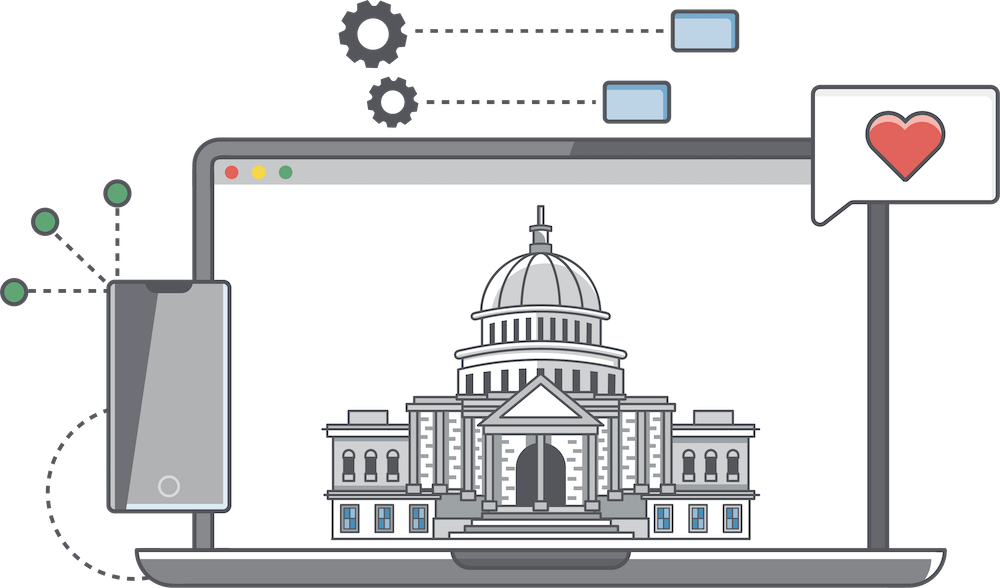
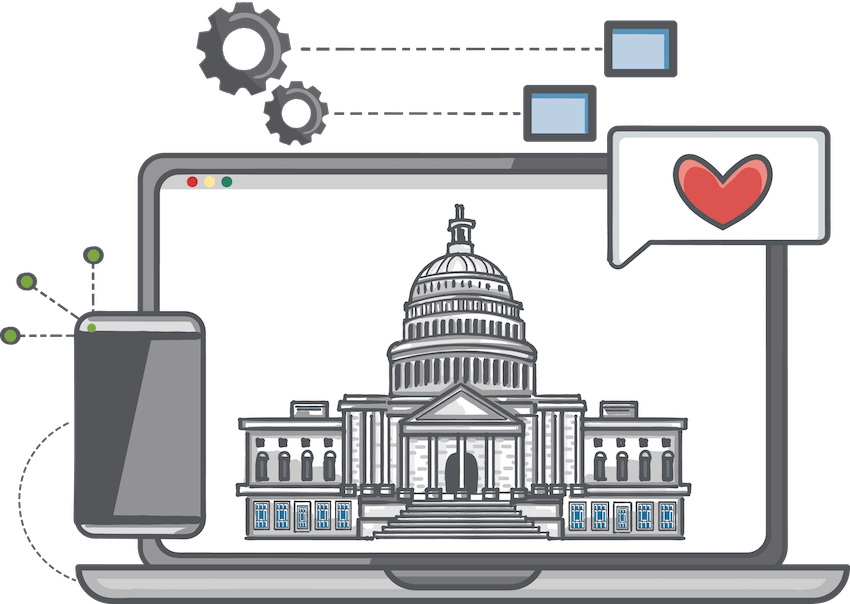
revert to old imgs; add links to DITAP page

diff --git a/pages/services.html b/pages/services.html
@@ -42,7 +42,8 @@ permalink: /services/
     <div class="minor-service-areas-row">
       <div class="minor-service-area-col">
         <p>
-          Also, check out our <a class="text" href="/services/microconsulting/">Microconsulting Services</a>.
+          Also, check out our <a class="text" href="/services/microconsulting/">Microconsulting Services</a>
+          and <a class="text" href="/services/ditap/">DITAP Training</a>.
         </p>
       </div>
     </div>

diff --git a/_includes/footer.html b/_includes/footer.html
@@ -18,6 +18,7 @@
               <li><a href="/services/digital-procurement/">Digital Procurement</a></li>
               <li><a href="/services/digital-transformation/">Digital Transformation</a></li>
               <li><a href="/services/microconsulting/">Microconsulting</a></li>
+              <li><a href="/services/ditap/">DITAP Training</a></li>
             </ul>
           </div>
         </div>
